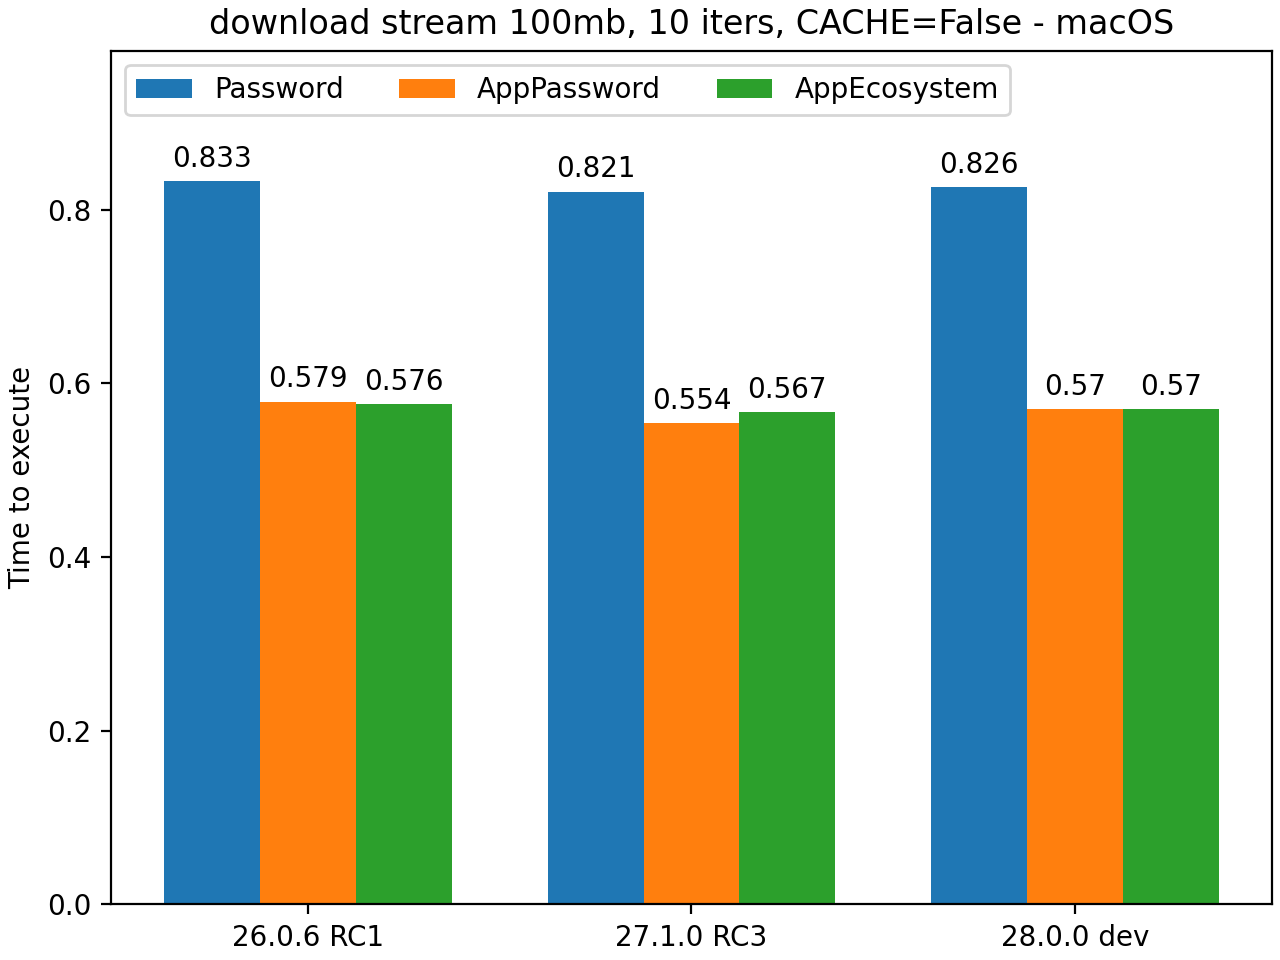
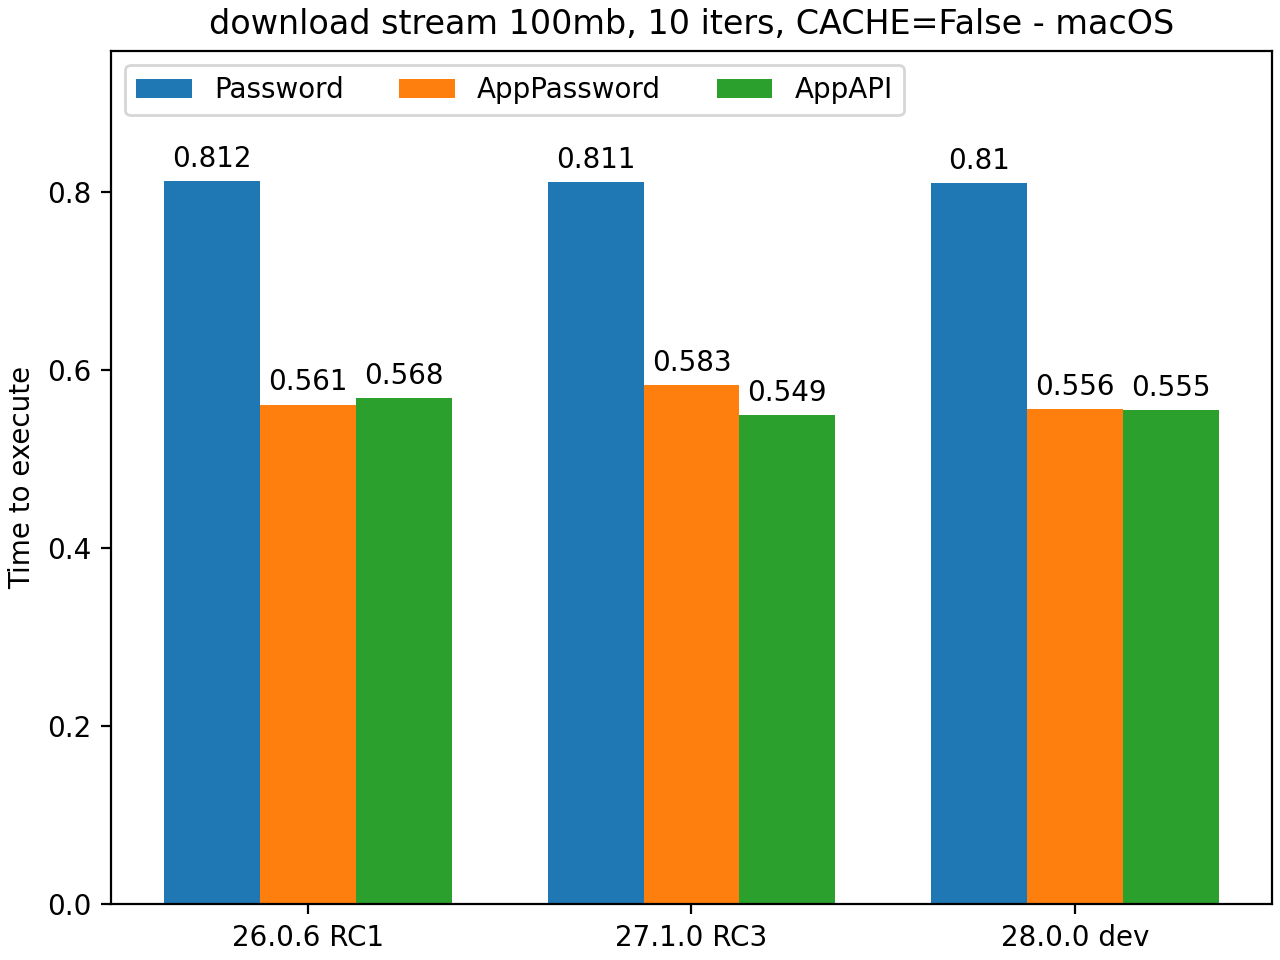
updated benchmarks

diff --git a/benchmarks/aa_overhead_common.py b/benchmarks/aa_overhead_common.py
@@ -11,7 +11,7 @@ def measure_overhead(measure, title: str):
     penguin_means = {
         "Password": [],
         "AppPassword": [],
-        "AppEcosystem": [],
+        "AppAPI": [],
     }
 
     for k, v in NC_CFGS.items():
@@ -34,7 +34,7 @@ def measure_overhead(measure, title: str):
 
         nc_ae = init_nc_app(k, v)
         result_nc_ae, time_nc_ae = measure(nc_ae)
-        penguin_means["AppEcosystem"].append(time_nc_ae)
+        penguin_means["AppAPI"].append(time_nc_ae)
 
         # Uncomment only for functions that return predictable values.
         # if result_nc is not None:

diff --git a/benchmarks/aa_overhead_dav_download_stream.py b/benchmarks/aa_overhead_dav_download_stream.py
@@ -10,7 +10,7 @@ from aa_overhead_common import measure_overhead, os_id
 from nc_py_api import Nextcloud, NextcloudApp
 
 ITERS = 10
-CACHE_SESS = True
+CACHE_SESS = False
 
 
 def measure_download_100mb(nc_obj: Union[Nextcloud, NextcloudApp]) -> [Any, float]:

diff --git a/benchmarks/aa_overhead_dav_upload_stream.py b/benchmarks/aa_overhead_dav_upload_stream.py
@@ -10,7 +10,7 @@ from aa_overhead_common import measure_overhead, os_id
 from nc_py_api import Nextcloud, NextcloudApp
 
 ITERS = 10
-CACHE_SESS = True
+CACHE_SESS = False
 
 
 def measure_upload_100mb(nc_obj: Union[Nextcloud, NextcloudApp]) -> [Any, float]:

diff --git a/benchmarks/aa_overhead_dav_download.py b/benchmarks/aa_overhead_dav_download.py
@@ -9,7 +9,7 @@ from aa_overhead_common import measure_overhead, os_id
 from nc_py_api import Nextcloud, NextcloudApp
 
 ITERS = 30
-CACHE_SESS = True
+CACHE_SESS = False
 
 
 def measure_download_1mb(nc_obj: Union[Nextcloud, NextcloudApp]) -> [Any, float]:

diff --git a/benchmarks/aa_overhead_ocs.py b/benchmarks/aa_overhead_ocs.py
@@ -8,7 +8,7 @@ from aa_overhead_common import measure_overhead, os_id
 from nc_py_api import Nextcloud, NextcloudApp
 
 ITERS = 100
-CACHE_SESS = True
+CACHE_SESS = False
 
 
 def measure_get_details(nc_obj: Union[Nextcloud, NextcloudApp]) -> [Any, float]:

diff --git a/benchmarks/aa_overhead_dav_upload.py b/benchmarks/aa_overhead_dav_upload.py
@@ -9,7 +9,7 @@ from aa_overhead_common import measure_overhead, os_id
 from nc_py_api import Nextcloud, NextcloudApp
 
 ITERS = 30
-CACHE_SESS = True
+CACHE_SESS = False
 
 
 def measure_upload_1mb(nc_obj: Union[Nextcloud, NextcloudApp]) -> [Any, float]:

diff --git a/docs/benchmarks/AppAPI.rst b/docs/benchmarks/AppAPI.rst
@@ -8,23 +8,7 @@ It is important to note that the AppAPI authentication type is currently the fas
 Compared to traditional username/password authentication and app password authentication,
 both of which are considerably slower, the AppAPI provides a significant advantage in terms of speed.
 
-When considering data transfer speed, it is worth mentioning
-that the AppAPI's upload speed may be slightly lower, around 6-8 percent, for large data transfers.
-This decrease in speed is due to the authentication process, which involves hashing all data.
-However, for loading any data, there is no slowdown compared to standard methods.
-
-In cases of loading any data, there is no slowdown relative to standard methods.
-
-While the transfer speed can be affected by the network speed between the application and the cloud,
-this aspect is beyond the scope of the discussed issue.
-
-Conclusion
-----------
-
-In summary, the AppAPI authentication offers fast and secure access to user data.
-With the potential addition of a session cache in the future, the authentication process can become even more efficient
-and seamless for users. The slight decrease in upload speed for large data transfers
-is a trade-off for the enhanced security provided by the authentication process.
+In summary, the AppAPI authentication offers fast and robust access to user data.
 
 Overall, the AppAPI authentication proves to be a reliable and effective method for application authentication.
 
@@ -47,32 +31,22 @@ nc-py-api version = **0.2.0**
 
 .. image:: ../../benchmarks/results/ocs_user_get_details__cache0_iters100__shurik.png
 
-.. image:: ../../benchmarks/results/ocs_user_get_details__cache1_iters100__shurik.png
-
 Downloading a 1 MB file
 -----------------------
 
 .. image:: ../../benchmarks/results/dav_download_1mb__cache0_iters30__shurik.png
-
-.. image:: ../../benchmarks/results/dav_download_1mb__cache1_iters30__shurik.png
 
 Uploading a 1 Mb file
 ---------------------
 
 .. image:: ../../benchmarks/results/dav_upload_1mb__cache0_iters30__shurik.png
 
-.. image:: ../../benchmarks/results/dav_upload_1mb__cache1_iters30__shurik.png
-
 Downloading of a 100 Mb file to the memory BytesIO python object
 ----------------------------------------------------------------
 
 .. image:: ../../benchmarks/results/dav_download_stream_100mb__cache0_iters10__shurik.png
 
-.. image:: ../../benchmarks/results/dav_download_stream_100mb__cache1_iters10__shurik.png
-
 Chunked uploading of a 100 Mb file from the BytesIO python object
 -----------------------------------------------------------------
 
 .. image:: ../../benchmarks/results/dav_upload_stream_100mb__cache0_iters10__shurik.png
-
-.. image:: ../../benchmarks/results/dav_upload_stream_100mb__cache1_iters10__shurik.png

diff --git a/docs/NextcloudApp.rst b/docs/NextcloudApp.rst
@@ -56,7 +56,7 @@ Here they are:
 * APP_PORT - Port on which application listen for the requests from the Nextcloud.
 * APP_SECRET - Secret for ``hmac`` signature generation.
 * APP_VERSION - Version of the application.
-* AE_VERSION - Version of the AppAPI.
+* AA_VERSION - Version of the AppAPI.
 * NEXTCLOUD_URL - URL at which the application can access the Nextcloud API.
 
 You can find values for these environment variables in the **Skeleton** or **ToGif** run configurations.
